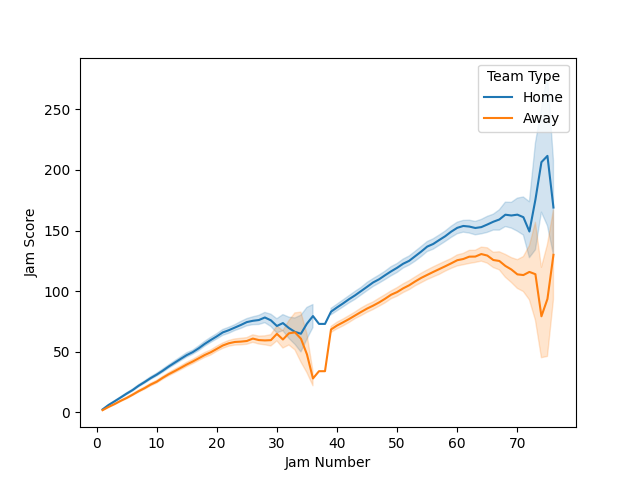
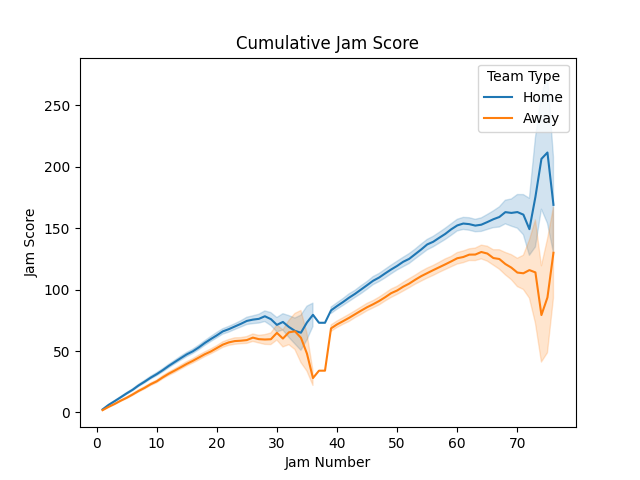
Worked on Jam Frequencies
Implemented Jam analysis and visualiztion

diff --git a/AnalyzeGameData.py b/AnalyzeGameData.py
@@ -366,3 +366,17 @@ print(f'Probability of a loss: {loss_prob}')
 
 # Probability of a win = 1 - P(loss)
 print(f'Probability of a win: {1 - loss_prob}')
+
+# Jam Analysis
+jam_df = pd.read_csv('jam_df.csv')
+jam_freq = [jam_df[jam_df['Jam Number'] == i].shape[0] for i in range(1,77)]
+jam_freq = pd.Series(jam_freq)
+
+print(f"The mean number of jams is {jam_freq.mean / jam_freq.min} less than the minimum")
+
+# Jam Std
+jam_std = [jam_df[jam_df["Jam Number"] == i]["Jam Score"].std() for i in range(1,77)]
+jam_std_change = [jam_std[i] - jam_std[i-1] for i in range(1,76)]
+
+print(f"Jam deviation at jams 30-35: {jam_std[29:34]}")
+print(f'The highest change is at Jam 72 where it is {max(jam_std_change)}')

diff --git a/VisualizeData.py b/VisualizeData.py
@@ -150,8 +150,15 @@ for jam_number in range(1, 77):
 
     jam_df = jam_df.drop(outliers.index)
 
-# sns.lineplot(data=jam_df, x="Jam Number", y="Jam Score", hue="Team Type")
+sns.lineplot(data=jam_df, x="Jam Number", y="Jam Score", hue="Team Type")
+plt.title("Cumulative Jam Score")
 # plt.savefig("Home vs Away Jams LinePlot.png")
 # plt.show()
 
-jam_df.to_csv("jam_df.csv")
+# jam_freq = [jam_df[jam_df['Jam Number'] == i].shape[0] for i in range(1, 77)]
+# plt.plot([i for i in range(1, 77)], jam_freq)
+# plt.xlabel("Jam Number")
+# plt.ylabel("Number of Jams")
+# plt.title("Number of Jams per Jam Number")
+# plt.savefig("Number of Jams per Jam Number")
+# jam_df.to_csv("jam_df.csv")

diff --git a/README.md b/README.md
@@ -124,7 +124,38 @@ the home team has an advantage. We could use the `sympy` library
 to find the max value of each distribution as well.
 
 Additionally, we create a skellam distribution to find the win/loss
-probability. In this case, it predicts a home team win `95.58%` of
-the time, perhaps there is a more accurate way of modeling this data.
+probability. 
 
-### Analysis - Poisson Regressor
+## Jams
+
+### Visualization
+![Home vs Away Jams LinePlot.png](Home%20vs%20Away%20Jams%20LinePlot.png)
+
+From the above we can see the cumulative jam score, as well as
+the first and third quartiles of the cumulative score. Not the
+discrepancy around Jams 32 and 68.
+
+![Number of Jams per Jam Number.png](Number%20of%20Jams%20per%20Jam%20Number.png)
+This discrepancy can be attributed to the fact that not many jams
+take place by Jam 31 and 67, as the clock usual runs out.
+Additionally, we can see a discrepancy in reporting, with some recorders
+starting jams at zero, and others starting jams at 1.
+
+### Analysis
+In `AnalyzeGameData.py` we use the frequency of each jam to show that
+the minimum is over 500 times less than the mean! At a minimum of `2`
+from over 750 games analyzed, the probability of a jam going past 32
+in either half is less than `0.1%`!
+
+We can see the highest change is at jam 72, where it is a whopping 20 points!
+The high deviation in the later jams indicate two things: Firstly, there are not
+a lot of jams played in those high numbers. Secondly, teams are really fighting
+to survive!
+
+## Conclusion
+We can conclude that the home team has a definite advantage.
+While derby is very fun to watch, it should be enjoyed for the
+love of the game, not for competitive reasons.
+
+We can also conclude that players are willing to go "all out"
+towards the match, which makes it very fun to watch!
